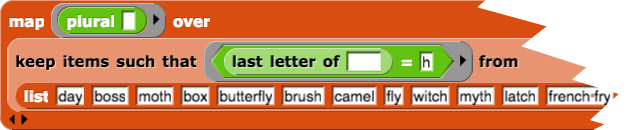
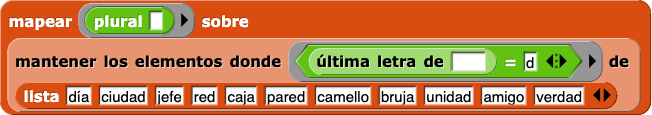
ESP - 2.OP.4 & 2.OP.5 - new pic and cleaning up HTML

diff --git a/cur/programming/2-complexity/optional-projects/5-plurals2.es.html b/cur/programming/2-complexity/optional-projects/5-plurals2.es.html
@@ -8,13 +8,6 @@
 
     <body>
 		<h2>Lenguaje de modelado: Plurales, Parte 2</h2>
-        <div class="todo">Need to redo KEEP images. --MF, 6/27/20</div>
-        <div class="todo">
-            <ul>
-                <li>REVISION NOTE: Students EXTEND their <strong>list</strong> of nouns as needed. At each testing stage, have them <strong>map</strong> their "specialist block" or their <strong>plural </strong>block over the entire list and note which words are and aren't correctly pluralized.</li>
-                <li>Rebuild the images without white backgrounds. --MF</li>
-            </ul>
-		</div>
 
         <p>Puedes mejorar <code>plural</code> para que funcione correctamente con más palabras. Si el proyecto aún no está abierto, vuelve a cargarlo. (El nombre de archivo sugerido era <code>U2-Plural</code>.)  </p>
 
@@ -31,7 +24,7 @@
                                 <a href="#hint-just-hwords" data-toggle="collapse" title="Haz clic para obtener una sugerencia sobre cómo crear una lista de prueba de palabras que comienzan con &apos;h&apos;. ">Haz clic para obtener una sugerencia sobre cómo crear una lista de prueba de palabras que comienzan con "h".</a>
                                 <div id="hint-just-hwords" class="collapse">
                                     Porque sabes lo que hace <img src="/bjc-r/img/2-complexity/keep-items-such-that-(last-letter-of-(input)-equals-h)-from-test-list.es.png" alt="mantener elementos (última letra de (ranura de entrada vacía)= d) de (lista(día, ciudad, jefe, red, caja, pared, camello, bruja, unidad, amigo, verdad))(el final de la imagen está cortado)" title="mantener elementos (última letra de (ranura de entrada vacía)= d) de (lista(día, ciudad, jefe, red, caja, pared, camello, bruja, unidad, amigo, verdad))(el final de la imagen está cortado)">, puedes usar su salida como entrada para una prueba de <code>plural</code> o <code>plural-h</code>:<br />
-                                    <img class="indent" src="/bjc-r/img/2-complexity/map-plural(with-input)-over-(keep-items-such-that-(last-letter-of-(input)-equals-h)-from-test-list).es.png" alt="mapear plural (mantener elementos (última letra de (ranura de entrada vacía)= d) de (lista(día, ciudad, jefe, red, caja, pared, camello, bruja, unidad, amigo, verdad)))(el final de la imagen está cortado)" title="mapear plural (mantener elementos (última letra de (ranura de entrada vacía)= d) de (lista(día, ciudad, jefe, red, caja, pared, camello, bruja, unidad, amigo, verdad)))(el final de la imagen está cortado)">
+                                    <img class="indent" src="/bjc-r/img/2-complexity/map-plural(with-input)-over-(keep-items-such-that-(last-letter-of-(input)-equals-h)-from-test-list).es.png" alt="mapear (plural ()) sobre (mantener los elementos donde (última letra de ()= d) de (lista(día, ciudad, jefe, red, caja, pared, camello, bruja, unidad, amigo, verdad)))" title="mapear (plural ()) sobre (mantener los elementos donde (última letra de ()= d) de (lista(día, ciudad, jefe, red, caja, pared, camello, bruja, unidad, amigo, verdad)))">
                                 </div>
                             </div>
                         </li>
@@ -57,15 +50,6 @@
 
 
         <div class="takeItFurther">
-            <div class="todo">I'm not thrilled with the way this pushes a particular implementation for a reason that's hidden until they get there, and doesn't make sense on its own. bh
-                <p>Any better now? BTW, I moved what was TIF A up into an endnote in 1. --MF, 1/11/21</p>
-            </div>
-            <div class="todo">
-                <p>I cleaned this up a bit and added a "tough stuff" icon on part B. I think part B is <em>very</em> hard. More could be done to make it clearer, but I don't have the time for that now. One concern that this we should address now is not using "..." where what we need is jaggies. <strong>Can you please replace those two images with the complete images, and I'll jaggy them?</strong> <br />
-                    <img class="" src="/bjc-r/img/2-complexity/plural-specialists-list.es.png" alt="" title="" /> <img class="" src="/bjc-r/img/2-complexity/match-vowels.es.png" alt="" title="" />
-                </p>
-                <p>Also, <strong>can you make sure that the TG and the solutions match</strong> this version after you review it? Thanks! --MF, 1/11/21</p>
-            </div>
             <ol type="A">
                 <li>
                     Extiende <code>plural</code> para manejar correctamente una palabra de entrada que tiene un espacio al final.
@@ -89,8 +73,7 @@
                             <div class="narrowpurple">Para crear el segundo elemento de cada lista pequeña, busca el bloque que deseas, colócalo en la segunda entrada de <code>lista</code>, luego haz clic en el bloque con el botón derecho y elige "encapsular". Como muestra el ejemplo "x", no tiene que ser un bloque llamado <code>plural-</code>algo. Solo tiene que tener una ranura de entrada vacía donde desea que vaya la palabra.</div>
                         </li>
                         <li>
-                            <div class="comment">FYI, this breaks the rule of not teaching more than one thing at a time, we are teaching key-value pairing, FIND FIRST, and CALL. As a result, you've defaulted to hand-holding here. --MF, 1/11/21</div>
-                            Luego, en tu procedimiento <code>plural</code>, puedes reemplazar la mayoría de los bloques si</code> con<br />
+                            Luego, en tu procedimiento <code>plural</code>, puedes reemplazar la mayoría de los bloques <code>si</code> con<br />
                             <img class="indent" src="/bjc-r/img/2-complexity/plural-specialist-dispatch.es.png" alt="variables de programa (par)
                             asignar (par) para (encontrar el primer elemento (anillado ((elemento (1) de ( )) = (última letra de (palabra)))) en (plural especialistas))
                             si (es (par) una (lista)?) {
@@ -101,15 +84,12 @@
                                  reportar (llamada (elemento (2) de (par)) con entradas (palabra))
                             }" /><br />
                             <div class="narrowpurple">
-                                <div class="todo">We haven't taught FIND FIRST yet. So I looked at <a href="/bjc-r/cur/programming/3-lists/3-tic-tac-toe/3-checking-for-ties.es.html?topic=nyc_bjc%2F3-lists.es.topic&course=bjc4nyc.es.html&novideo&noassignment">3.3.3</a> where we first use it, and we don't teach it there either. :/ We actually teach it in <a href="/bjc-r/cur/programming/5-algorithms/3-turning-data-information/4-filtering-data.es.html?topic=nyc_bjc%2F5-algorithms.es.topic&course=bjc4nyc.es.html&novideo&noassignment">5.3.4</a>. So I dragged some of that content back into U3 and also here. --MF, 1/11/21</div>
                                 <p><code>Buscar primero</code> es una función de orden superior que funciona de manera similar a <code>mantener</code>, pero reporta solo del primer elemento que se encuentra. Es equivalente a <code>elemento (1) de (mantener)</code>.</p>
-                                <div class="commentBig">Ringifying is unclear here. What does it mean to have the ring? What does it mean not to have it? If they don't know, they are "just doing what the book says to." --MF, 1/11/21</div>
                                 <p>El bloque <code>llamar</code> en la paleta no incluye el "<code>con entradas</code>" en la imagen; cuando haces clic en su flecha derecha, esas palabras aparecerán junto a una ranura de entrada. El primer espacio de entrada del bloque <code>llamar</code> es el anillo gris vacío, lo que significa que <code>llamar</code> necesita un bloque en ese espacio de entrada. Cuando arrastras el <code>elemento 2 del par</code> a esa ranura, el anillo permanece a su alrededor. Por lo general, eso es lo que queremos cuando usamos <code>llamar</code>, pero no esta vez. Haz clic con el botón derecho en el bloque <code>elemento de</code> y selecciona "desencapsular" en el menú.</p>
                                 <div class="endnote">Puedes experimentar con <code>llamar</code> para ver qué más puedes hacer con él. ¿Qué sucede si no desmarcas el bloque <code>elemento</code>? ¿Qué sucede si omites el "<code>con entradas</code>" y la segunda entrada?</div>
                             </div>
                         </li>
                         <li>
-                            <div class="comment">I think a hint here about testing all trailing substrings would be helpful. Also, a definition of the term would be nice. --MF, 1/11/21</div>
                             No hay razón para que las claves tengan que ser letras individuales. Por ejemplo, en inglés, es necesario fijarse en más de una letra en algunos casos. Modifica el código en <code>plural</code> para que compare todas las <em>subcadenas finales</em> de la palabra con la lista de especialistas. Es decir, si la palabra es "ditch" (zanja), buscará en la lista de especialistas "ditch", luego "itch", luego "tch", "ch" y finalmente, si no encuentra nada más, "h ." pondrías<br />
                             <img class="indent" src="/bjc-r/img/2-complexity/ch-dispatch.es.png" alt="lista (ch) (bloque anillado (unir ( ) (es)))" title="lista (ch) (bloque anillado (unir ( ) (es)))" /><br />
                             en la lista, y luego a las palabras que terminen en "ch" se les agregaría "es". Este mecanismo es muy general; funciona incluso para casos especiales como<br />
@@ -117,7 +97,6 @@
                             (Tendrás que definir la función <code>palabra</code> que solo reporta su entrada; es necesaria porque no puede escribir letras directamente en un anillo). <em>Ahora</em> tienes un bloque <code>plural</code> <i>realmente </i>despejado. E incluso funcionará para un idioma que no sea inglés, si haces una lista especializada diferente.
                         </li>
                         <li>
-                            <div class="comment">Here is where you really start to lose me. I'm not actually building this in Snap<em>!</em>now, as I've spent far too long on this already, but the text doesn't explain this adequately for me. --MF, 1/11/21</div>
                             Si modificas la prueba de la subcadena final para que, en lugar de darse por vencido si no puede encontrar la última letra de la palabra como una clave, ve un paso más allá y busca una clave <em>vacía</em> en la lista especializada, y agrega<br />
                             <img class="indent" src="/bjc-r/img/2-complexity/default-dispatch.es.png" alt="(elemento ( ) (anillado (unir ( ) (s))))" title="(elemento ( ) (anillado (unir ( ) (s))))" /><br />
                             a la lista, entonces puedes estar seguro de que todas las palabras posibles coincidirán con eso, al menos, por lo que ya no necesita el <code>si</code>. Tu bloque <code>plural</code> ahora puede ser solo de una línea: <code>reportar (llamar (elemento 2 de (la subcadena final más larga...</code>.

diff --git a/cur/programming/2-complexity/optional-projects/4-plurals1.es.html b/cur/programming/2-complexity/optional-projects/4-plurals1.es.html
@@ -8,10 +8,6 @@
 
     <body>
 		<h2>Lenguaje de modelado: Plurales, Parte 1</h2>
-        <div class="todo">
-            <p>PG: This /has/ a learning purpose. It's lost in "optional." The learning purpose is couched in machine generation of language, but the content/programming goals are also practice of old, learning new, and foreshadowing. The important "new" is the essential element of problem decomposition and abstraction: this problem is too difficult /without/ decomposing it, but perfectly tractable /with/ decomposition. And then, perfectly extensible to Spanish or...</p>
-            <p>Brian and Mary are considering possibly one day making these two pages into a non optional lab before or after Lab 4. --MF, 1/2/21</p>
-        </div>
 
         <div class="learn">
             Siri y otros robots están programados para generar lenguaje. Siri habla; algunos robots escriben. Has desarrollado un programa, <code>chisme</code>, que escribe. <b>En este proyecto</b>, ampliarás las habilidades de la computadora con el lenguaje mediante el desarrollo de un bloque reportero, <code>plural</code>, que toma un sustantivo como entrada, deletrea correctamente y genera el plural.<br />
